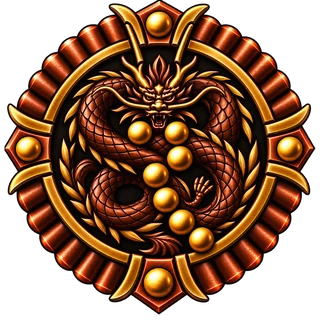
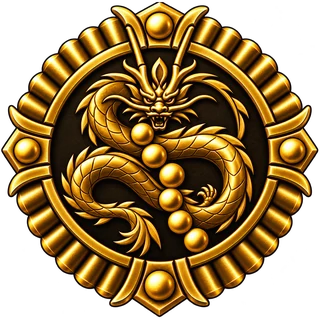
Icône des ryō : version or partout
Claude-Session: https://claude.ai/code/session_01KMxgz3a7L8x3NPii2Ytgz6

diff --git a/public/index.html b/public/index.html
@@ -6210,7 +6210,7 @@ const CHANGELOG=[
   en:["First online release: solo vs AI, online versus, tutorial, FR / EN / IT"],
   it:["Prima versione online: solo contro l'IA, versus online, tutorial, FR / EN / IT"]}
 ];
-const APP_VERSION=CHANGELOG[0].v, APP_BUILD="20261021104720";   // APP_BUILD : écrit par tools/export_public.py à chaque mise en ligne (plusieurs par version possibles)
+const APP_VERSION=CHANGELOG[0].v, APP_BUILD="20261021104906";   // APP_BUILD : écrit par tools/export_public.py à chaque mise en ligne (plusieurs par version possibles)
 function renderChangelog(sel=[]){
   try{ localStorage.setItem("boc-seen-ver",APP_VERSION); }catch(e){}
   const fmt=d=>{ try{ return new Date(d+"T12:00:00").toLocaleDateString(LANG==="en"?"en-GB":LANG==="it"?"it-IT":LANG==="ja"?"ja-JP":"fr-BE",{day:"numeric",month:"long",year:"numeric"}); }catch(e){ return d; } };

diff --git a/public/sw.js b/public/sw.js
@@ -1,6 +1,6 @@
 // Battle of the Century : cache hors ligne des images, sons et polices (la page et l'API restent toujours à jour)
 const VERSION = "0.99.98";
-const ASTAMP = "e77cdf97cc";   // empreinte des images / sons (écrite par tools/export_public.py)
+const ASTAMP = "1b496ed7c7";   // empreinte des images / sons (écrite par tools/export_public.py)
 const CACHE = "boc2-" + VERSION + "-" + (typeof ASTAMP === "string" ? ASTAMP : "");   // boc2 : on repart de zéro (anciennes images restées dans le cache du navigateur)
 const PRECACHE = ["./", "assets/icon-192.png", "assets/bg-city.webp", "assets/bg-ruins.webp"];
 
